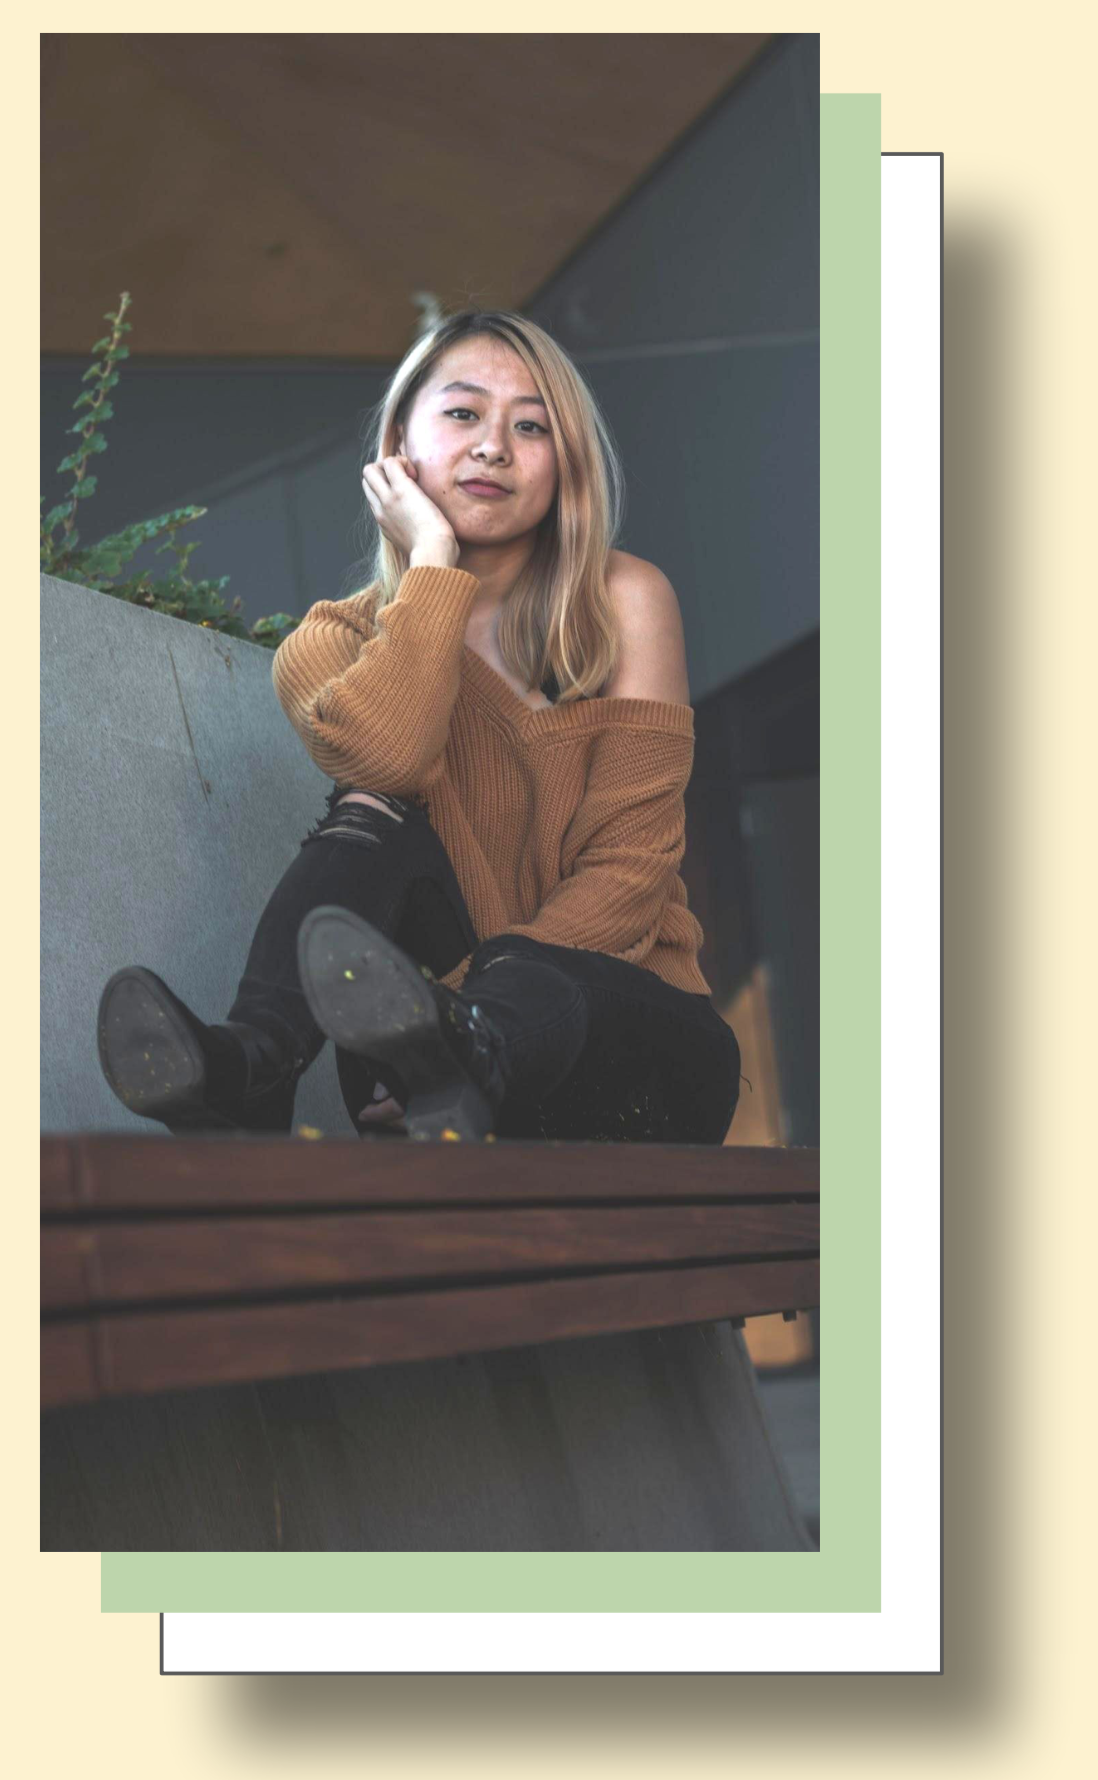
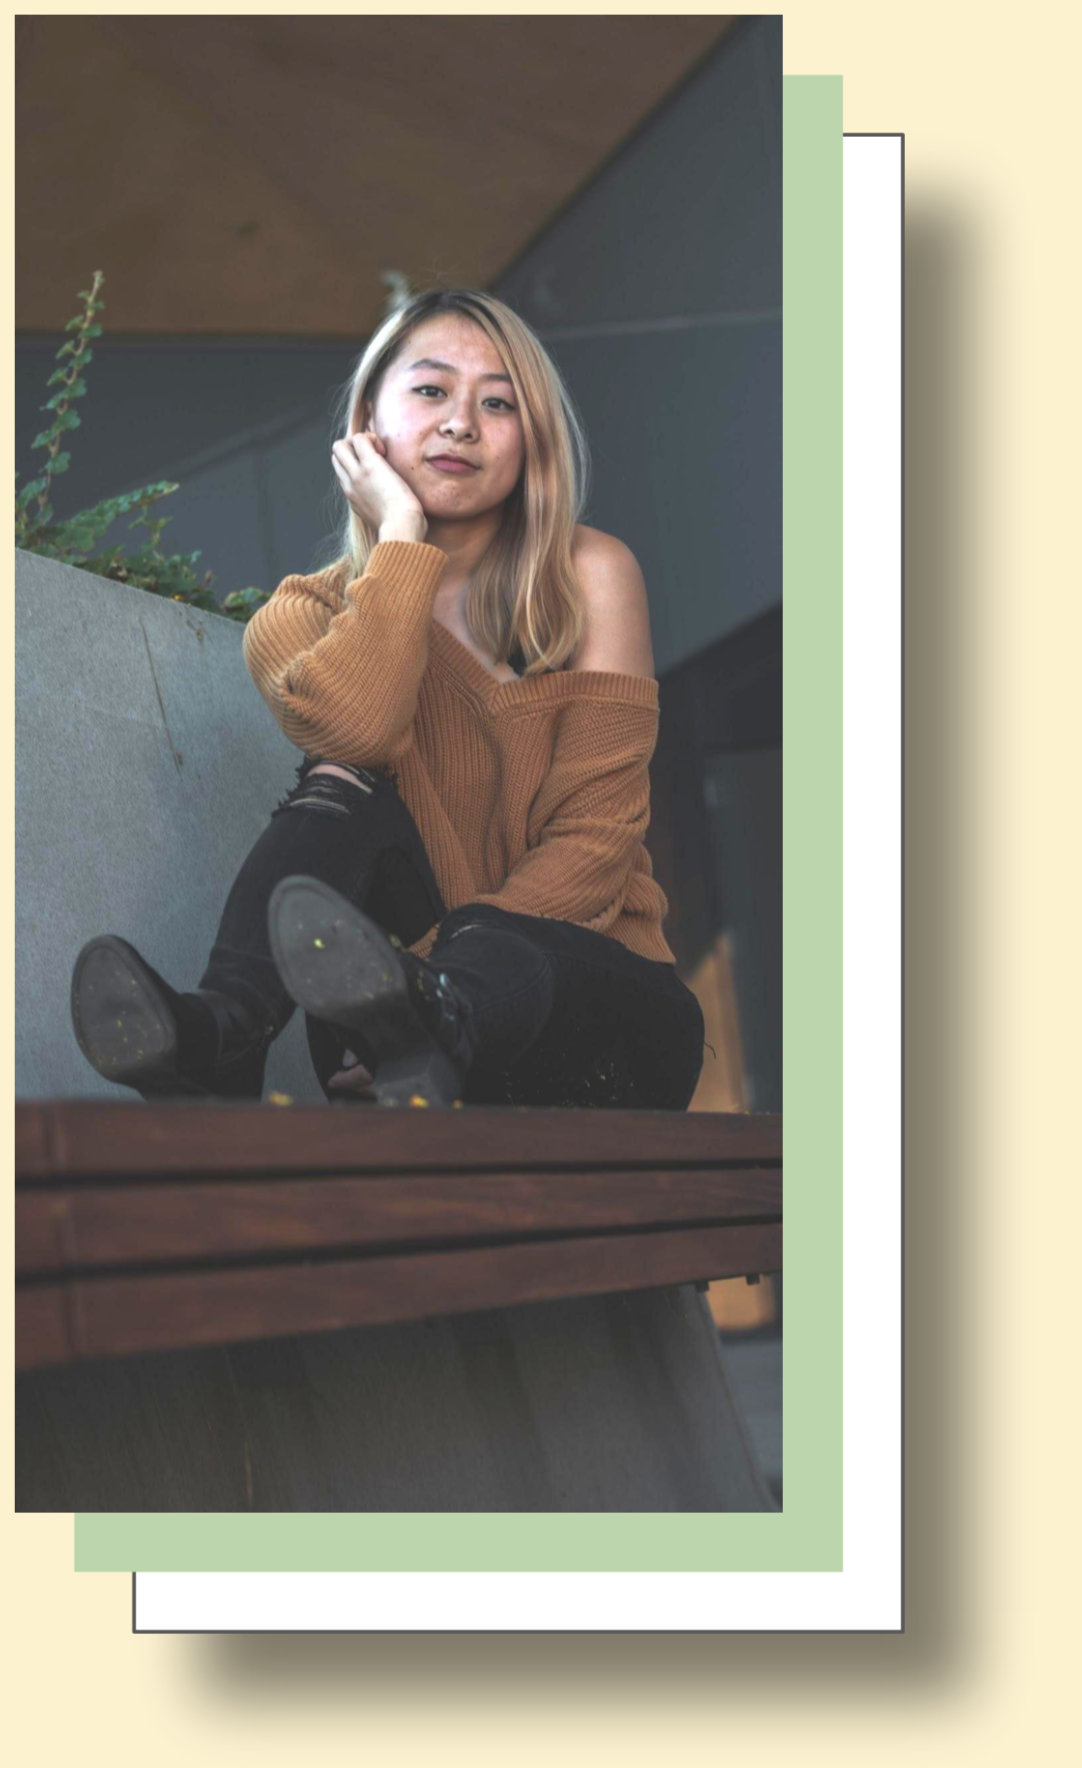
recolor and reshape divs

diff --git a/version 3/index.html b/version 3/index.html
@@ -10,15 +10,11 @@
     <title>Emily Cang</title>
 
     <!-- Custom Fonts -->
-    <link href="https://fonts.googleapis.com/css?family=Source+Sans+Pro:300,400,700,300italic,400italic,700italic" rel="stylesheet" type="text/css">
-    <link href="https://fonts.googleapis.com/css?family=Roboto" rel="stylesheet" type="text/css">
-    <link href="https://fonts.googleapis.com/css?family=Teko:700" rel="stylesheet" type="text/css">
-    <link href="https://fonts.googleapis.com/css?family=Rock+Salt" rel="stylesheet">
-    <link href="https://fonts.googleapis.com/css?family=Raleway" rel="stylesheet">
+    <link href="https://fonts.googleapis.com/css?family=Abel|Dawning+of+a+New+Day|Open+Sans&display=swap" rel="stylesheet">
 
 
     <!-- Custom CSS -->
-    <link rel="stylesheet/less" type="text/css" href="main.less" />
+    <link rel="stylesheet" type="text/css" href="main.css" />
     <script src="//cdnjs.cloudflare.com/ajax/libs/less.js/3.9.0/less.min.js" ></script>
     <link href="css/style-home.css" rel="stylesheet">
   </head>
@@ -27,18 +23,15 @@
     <div class="home-wrapper">
       <div class="content-wrapper">
 
-        <div class="column">
-          <img class="home-img" src="img/drawing.png" alt="">
+        <div class="img-column">
+          <img class="home-img" src="img1.png" alt="">
         </div>
 
-        <div class="column">
+        <div class="description-column">
           <div class="home-text-wrapper">
-            <div class="home-text">
-              <h6 class="home-intro">Hi there! My name is</h6>
-              <h1 class="home-name">EMILY CANG.</h1>
-              <h6 class="home-subtitle">ENGINEER, EDUCATOR, & BOBA ENTHUSIAST.</h6>
-              <a class="home" href="#">Get to Know Me</a>
-            </div>
+            <h1 class="home-name">emily cang.</h1>
+            <h6 class="home-subtitle">engineer, educator, & boba enthusiast</h6>
+            <a class="home-link" href="#">get to know me...</a>
           </div>
         </div>
 

diff --git a/version 3/main.less b/version 3/main.less
@@ -1,5 +1,46 @@
-.home-wrapper {
-	.content-wrapper {
-		background-color: red;
+@site-yellow: #fff2cc;
+
+html {
+	height: 100%;
+	width: 100%;
+	body {
+		height: 100%;
+		width: 100%;
+		margin: 0;
+
+		.home-wrapper {
+			height: 100%;
+
+			.content-wrapper {
+				background-color: @site-yellow;
+				display: flex;
+				height: 100%;
+
+				.img-column {
+					width: 40%;
+
+					.home-img {
+						max-width: 100%;
+						max-height: 100%;
+					}
+				}
+
+				.description-column {
+					width: 60%;
+
+					.home-text-wrapper {
+						.home-name {
+							font-family: 'Open Sans', sans-serif;
+						}
+						.home-subtitle {
+							font-family: 'Dawning of a New Day', cursive;
+						}
+						.home-link {
+							font-family: 'Abel', sans-serif;
+						}
+					}
+				}
+			}
+		}
 	}
 }
